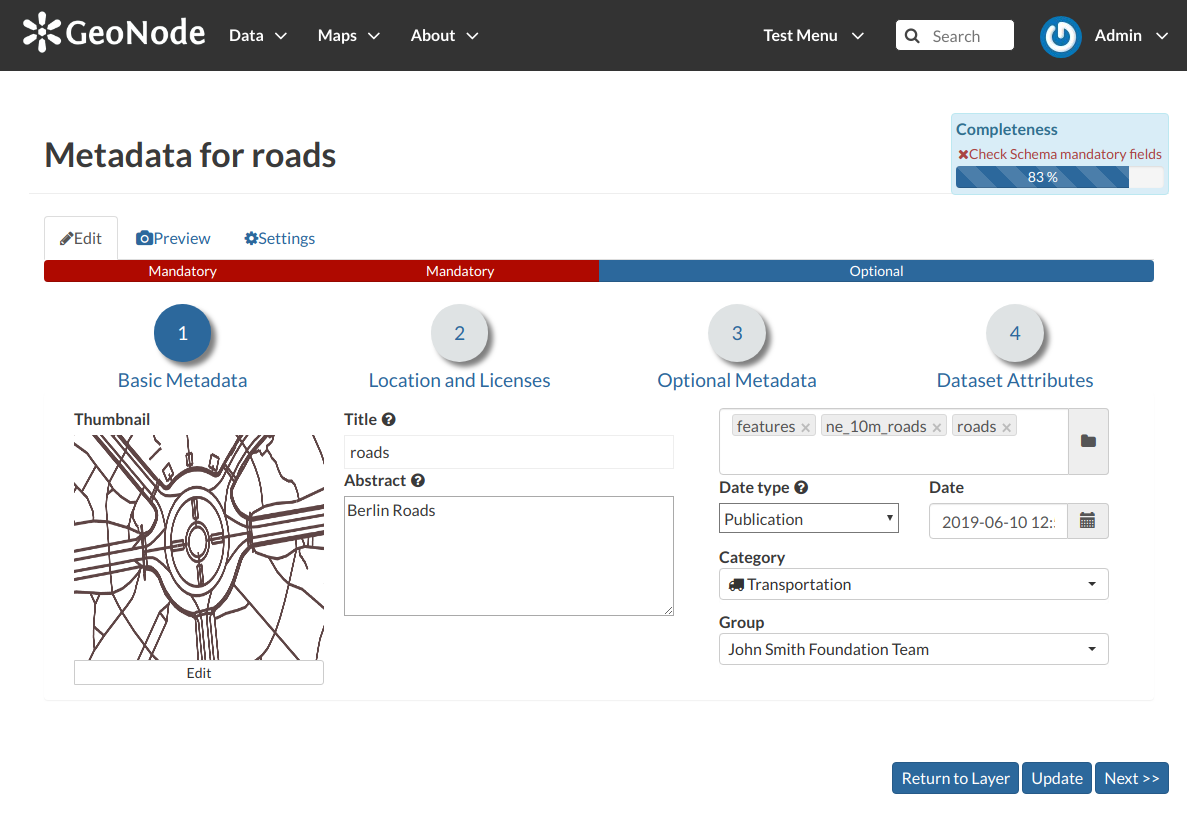
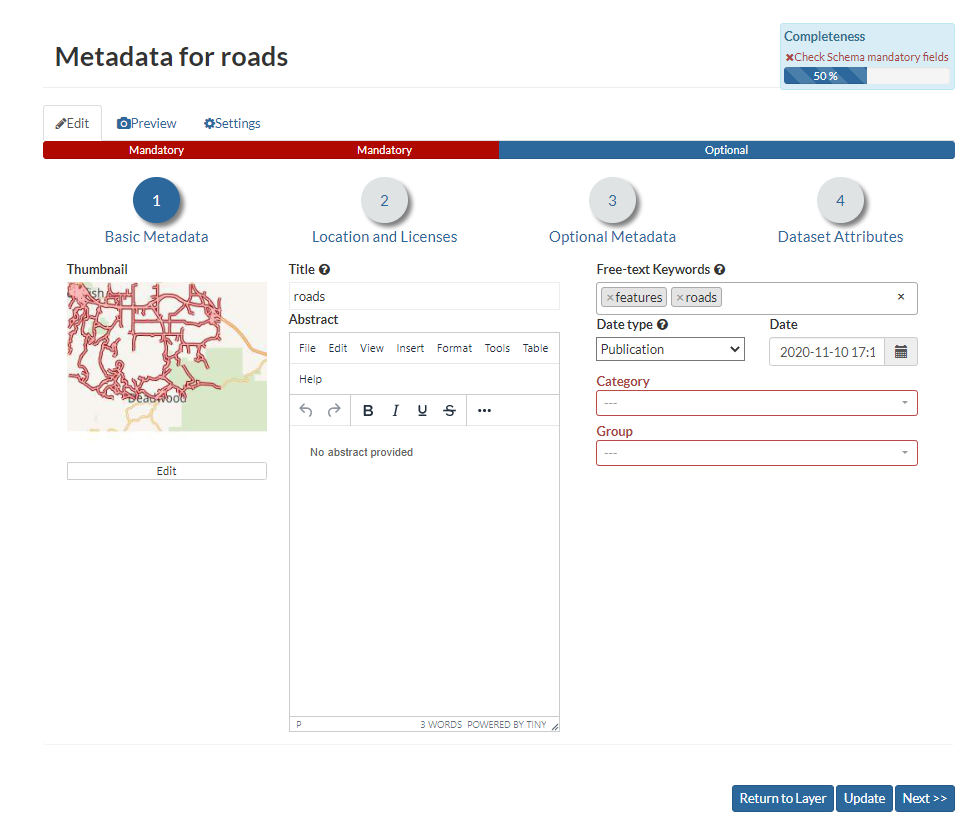
[Docs for ISSUE #6626] add tinymce editor to resource text areas

diff --git a/usage/managing_layers/layer_metadata.rst b/usage/managing_layers/layer_metadata.rst
@@ -53,7 +53,7 @@ Metadata Wizard
 | Metadata contains all the information related to the layer. They provide essential information for its identification and its comprehension. Metadata also make the layer more easily retrievable through search by other users.
 | The *Metadata* of a layer can be changed through a *Wizard* which involves four steps, one for each type of metadata considered:
 
-* *Basic Metadata*
+* **Basic Metadata**
 
   The first two steps are mandatory (no layers will be published if the required information are not provided) whereas the last two are optional.
 
@@ -66,13 +66,17 @@ Metadata Wizard
 
   * The *Thumbnail* of the layer (click :guilabel:`Edit` to change it);
   * The *Title* of the layer, which should be clear and understandable;
-  * An *Abstract* on the layer;
+  * An *Abstract*; brief narrative summary of the content of the Layer
+
+        .. note:: The *Abstract* panel allows you to insert HTML code through a *wysiwyg* text editor
+
   * The *Creation/Publication/Revision Dates*  which define the time period that is covered by the layer;
   * The *Keywords*, which should be chosen within the available list. The contributor search for available keywords by clicking on the searching bar, or on the folder logo representing, or by entering the first letters of the desired word;
   * The *Category* which the layer belongs to;
   * The *Group* which the layer is linked to.
 
-* *Location and Licenses*
+
+* **Location and Licenses**
 
   .. figure:: img/location_licenses_layer_metadata.png
       :align: center
@@ -83,11 +87,16 @@ Metadata Wizard
 
   * The *Language* of the layer;
   * The *License* of the dataset;
+  * The *DOI* of the dataset; if available, this represents the `Digital Object Identifier <https://www.doi.org/>`_ of the resource
+  * The *Attribution* of the dataset; authority or function assigned, as to a ruler, legislative assembly, delegate, or the like
   * The *Regions*, which informs on the spatial extent covered by the layer. Proposed extents cover the following scales: global, continental, regional, national;
   * The *Data Quality statement* (general explanation of the data producer's knowledge about the lineage of a dataset);
   * Potential *Restrictions* on layer sharing.
 
-* *Optional Metadata*
+        .. note:: The *Data Quality statement* and *Restrictions* panels allow you to insert HTML code through a *wysiwyg* text editor
+
+
+* **Optional Metadata**
 
   .. figure:: img/optional_layer_metadata.png
       :align: center
@@ -103,7 +112,10 @@ Metadata Wizard
   * The users who are *Responsible* for the layer, its *Owner*, and the *Author* of its metadata;
   * The *Spatial representation type* used.
 
-* *Dataset Attributes*
+        .. note:: The *Purpose* and *Supplemental information* panels allow you to insert HTML code through a *wysiwyg* text editor
+
+
+* **Dataset Attributes**
 
   .. figure:: img/dataset_attributes_layer_metadata.png
       :align: center
@@ -115,6 +127,38 @@ Metadata Wizard
   * The *Label* displayed
   * A detailed *Description*
   * The *Display Order*
+  * The *Display Type*; the default value is *Label*, which means that the value of the attribute will be rendered as a plain text.
+    There's the possibility to instruct GeoNode to threat the values as different media-types. As an instance, if the values of the
+    selected attribute will contain image urls, by selecting the ``IMAGE`` *Display Type* you will allow GeoNode to render the image
+    directly when querying the layer from the maps. The same for ``VIDEO``, ``AUDIO`` or ``IFRAME`` mime types.
+  * The *Visibile* flag; allows you to instruct GeoNode wether or not hiding an attribute from the *Get Feature Type* outcomes
+
+
+  It is possible to define a completely custom ``HTML`` template for the *Get Feature Type* outcome. That is possible by enabling the *Use a custom template* flag as shown in the figure below.
+
+
+  .. figure:: img/dataset_attributes_layer_metadata_custom_ft.png
+      :align: center
+
+      *Use a custom template*
+
+  By using the keywork ``${properties.<attribute_name>``, you can tell to GeoNode to render the actual value of the attribute on the map.
+
+
+  As an instance, the example below
+
+  .. figure:: img/dataset_attributes_layer_metadata_custom_ft_html.png
+      :align: center
+
+      *Use a custom template: HTML*
+
+
+  Will render an ``HTML Table`` along with values as shown here below
+
+  .. figure:: img/dataset_attributes_layer_metadata_custom_ft_outcome.png
+      :align: center
+
+      *Use a custom template: Get Feature Info outcome*
 
 Use :guilabel:`next >>` or :guilabel:`<< back` to navigate through those steps. Once you have finished click on :guilabel:`Update`.
 

diff --git a/usage/managing_maps/map_metadata.rst b/usage/managing_maps/map_metadata.rst
@@ -33,7 +33,8 @@ Metadata Wizard
 | Metadata provide essential information for the identification and the comprehension of the map. They also make the map more easily retrievable through the search tools.
 | Those *Metadata* can be filled out through a three-steps *Wizard* in which you have to provide all mandatory information to complete the process. Those three steps are described below.
 
-* *Basic Metadata*
+
+* **Basic Metadata**
 
   .. figure:: img/basic_map_metadata.png
       :align: center
@@ -44,7 +45,10 @@ Metadata Wizard
 
   * The *Thumbnail* of the map (click :guilabel:`Edit` to change it);
   * The *Title* of the map, which should be clear and understandable;
-  * An *Abstract*;
+  * An *Abstract*; brief narrative summary of the content of the Map
+
+        .. note:: The *Abstract* panel allows you to insert HTML code through a *wysiwyg* text editor
+
   * The *Creation/Publication/Revision Dates*  which define the time period that is covered by the map;
   * The *Keywords*, which should be chosen within the available list;
   * The *Category* which the map belongs to;
@@ -52,7 +56,8 @@ Metadata Wizard
 
   Click :guilabel:`Next >>` to go to the next step.
 
-* *Location and Licenses*
+
+* **Location and Licenses**
 
   .. figure:: img/location_licenses_map_metadata.png
       :align: center
@@ -70,7 +75,8 @@ Metadata Wizard
   No further mandatory metadata are required in the next step so, once the required fields have been filled out, a green :guilabel:`Done` button will be visible in the screen.
   Click :guilabel:`Next >>` to go to the next step or :guilabel:`<< Back` to go back to the previous step.
 
-* *Optional Metadata*
+
+* **Optional Metadata**
 
   .. figure:: img/optional_map_metadata.png
       :align: center

diff --git a/install/advanced/core/index.rst b/install/advanced/core/index.rst
@@ -1409,7 +1409,7 @@ below
     eval "$(pyenv virtualenv-init -)"
 
 8. Continue installing a recent python 3.8.x version.
-^^^^^^^^^^^^^^^^^^^^^^^^^^^^^^^^^^^^^^^^^^^^^^^^^^^^
+^^^^^^^^^^^^^^^^^^^^^^^^^^^^^^^^^^^^^^^^^^^^^^^^^^^^^
 
 Continue installing custom version of python (3.8.5), virtualenv, GeoNode
 
